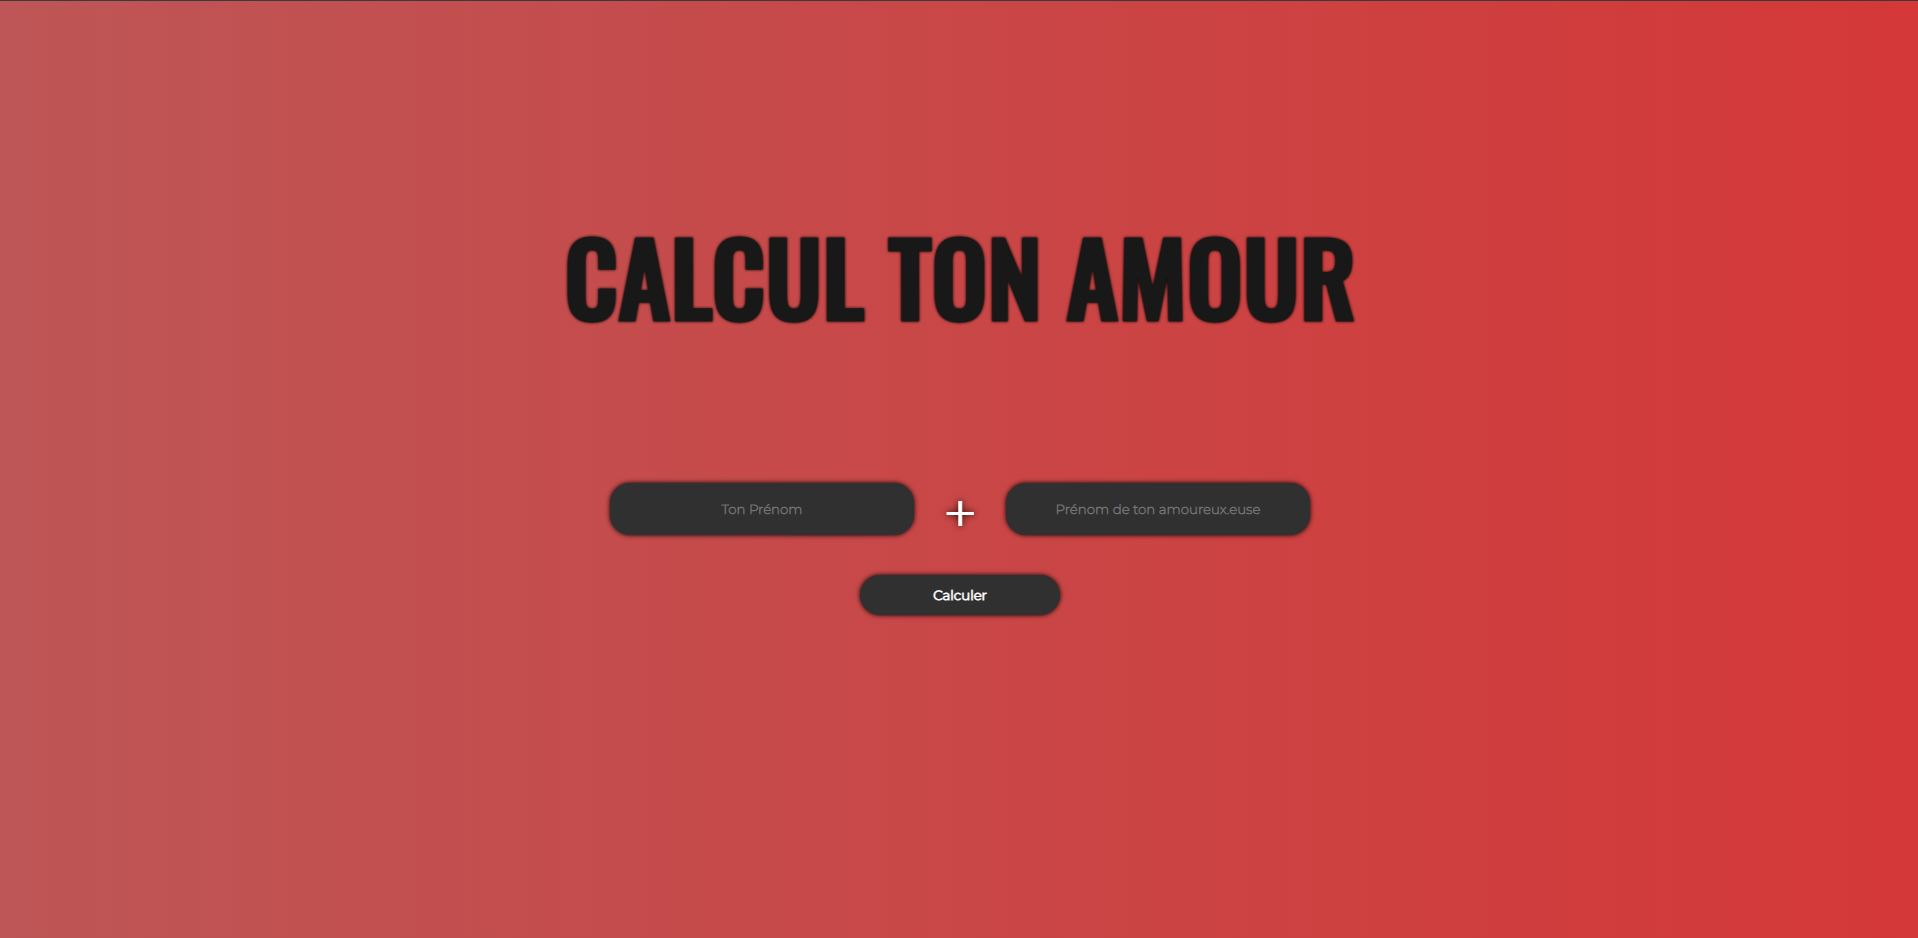
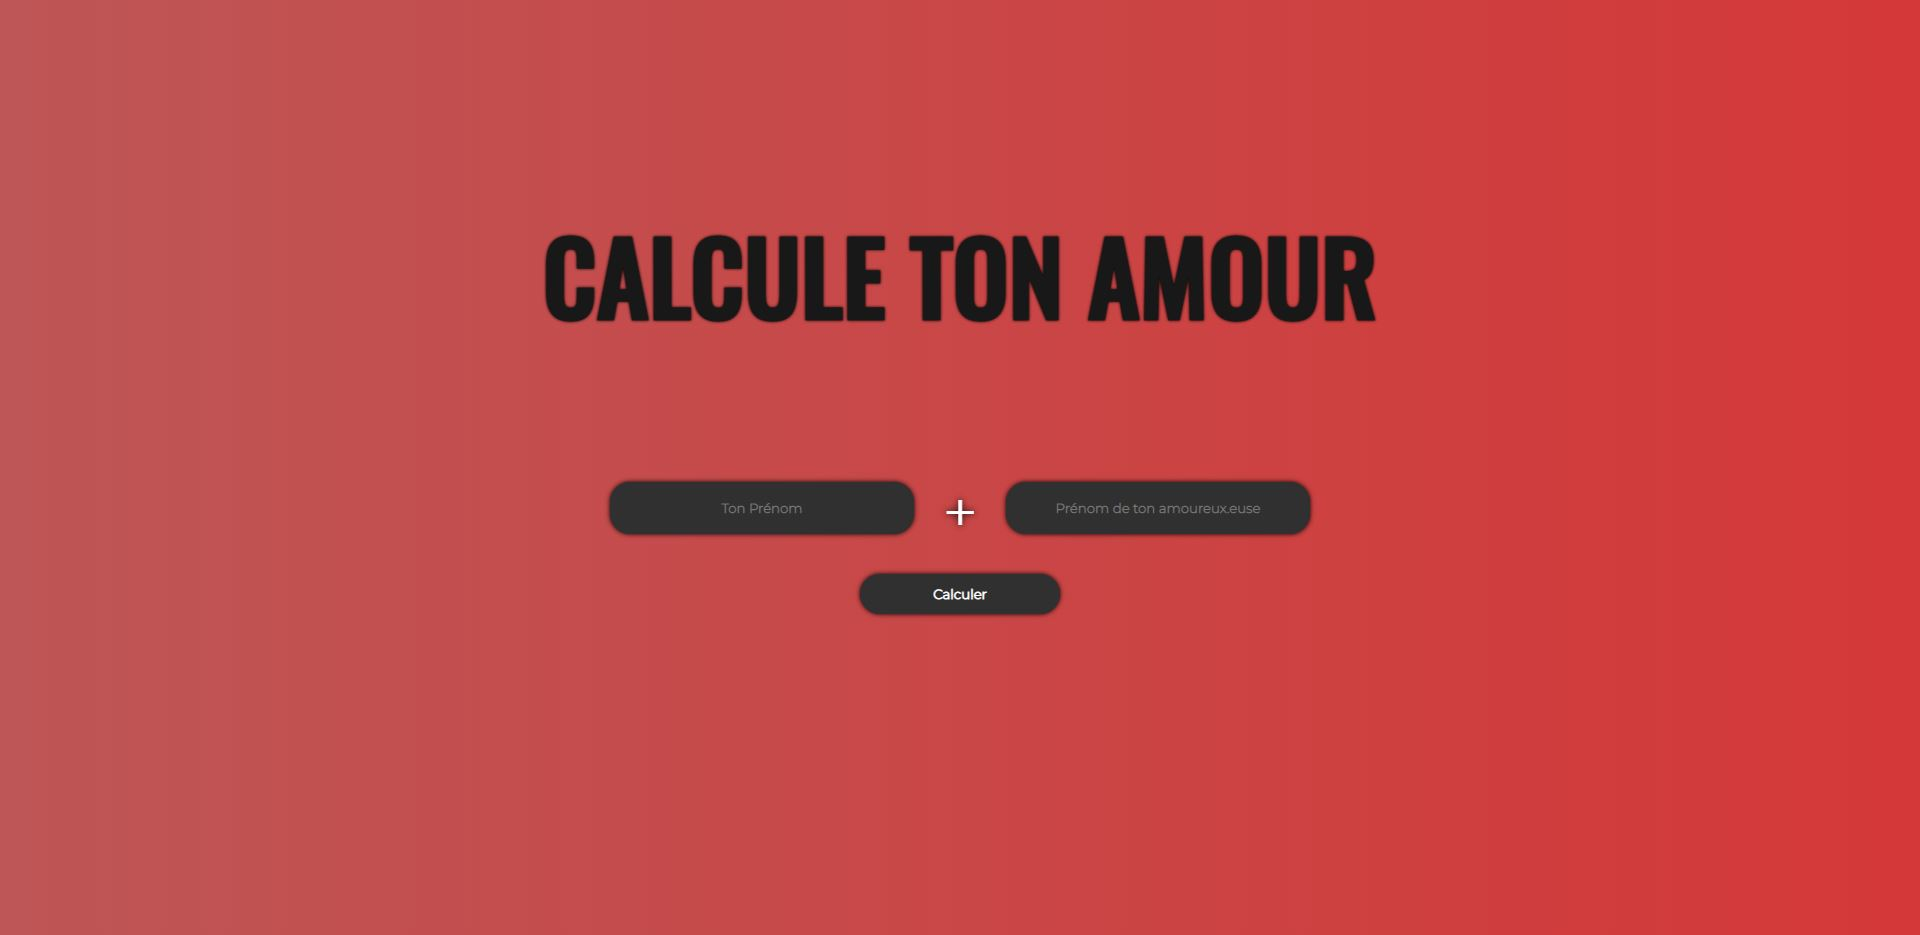
rectification faute

diff --git a/portfolio/foxsearch/style.css b/portfolio/foxsearch/style.css
@@ -1,0 +1,139 @@
+body {
+    background-color: rgba(32, 33, 36, 1);
+    color: #FFFFFF;
+    font-family: Arial, Helvetica, sans-serif
+}
+header {
+    height: 20px;
+}
+button {
+    background: #303134;
+    color: rgb(224, 224, 224);
+    padding: 10px 0px;
+    border-radius: 5px;
+    width: 170px;
+    border: 1px solid #303134;
+}
+button:hover {
+    cursor: pointer;
+    border: 0.7px solid rgb(102, 102, 102);
+}
+button:active {
+    background: rgb(97, 96, 96);
+}
+.tete {
+    display: flex;
+    margin-right: 2em;
+    flex-direction: row;
+    padding: 15px 15px 15px 15px;
+    justify-content: right;
+}
+.tete a {
+    margin: 0 10px;
+    font-size: 13px;
+}
+a {
+    color: white;
+    text-decoration: none;
+}
+a:hover {
+    border-bottom: 1px solid white;
+}
+input {
+    display: flex;
+    border-radius: 30px;
+    border: 1px solid grey;
+    height: 35px;
+    width: 550px;
+    align-items: center;
+    margin-left: auto;
+    margin-right: auto;
+    background-color: rgba(32, 33, 36, 1);
+    padding: 5px 0px 5px 35px;
+    font-size: 15px;
+    color: white;
+}
+input:hover {
+    outline: transparent;
+    border: 1px solid transparent;
+    background-color: #303134;
+
+}
+
+.titre {
+    display: flex;
+    justify-content: center;
+    align-content: center;
+    margin-top: 180px;
+    font-size: 2em;
+}
+.but {
+    display: flex;
+    justify-content: center;
+    margin-top: 30px;
+    
+}
+.but button {
+    margin: 0 10px;
+}
+
+.eng {
+    display: flex;
+    justify-content: center;
+    margin-top: 20px;
+    font-size: 13px;
+    color: rgb(211, 211, 211)
+}
+.eng a {
+    color: rgb(98, 141, 204);
+}
+.footerlink {
+    position: fixed;
+    left: 0;
+    bottom: 0;
+    width: 100%;
+    text-align: center;
+    display: flex;
+    align-items: center;
+    justify-content: space-between;
+    background-color: #171717;
+    border: 1px solid rgba(32, 33, 36, 1);
+    height: 50px;
+}
+
+.footerlink a {
+    color: #999DA2;
+    font-size: 14px;
+}
+
+.footleft a {
+    margin: 0 10px;
+
+}
+.footright a {
+    margin: 0 10px;
+}
+.footleft {
+    margin-left: 20px;
+}
+.footright {
+    margin-right: 20px;
+}
+.jack {
+    position: fixed;
+    left: 0;
+    bottom: 0;
+    margin-bottom: 50px;
+    border: 1px solid rgba(32, 33, 36, 1);;
+    background-color: #171717;
+    display: flex;
+    justify-content: space-between;
+    align-items: center;
+    height: 50px;
+    width: 100%;
+    padding-left: 25px;   
+    color: #999DA2;
+    font-size: 14px;
+}
+
+

diff --git a/portfolio/foxsearch/index.html b/portfolio/foxsearch/index.html
@@ -1,0 +1,66 @@
+<!DOCTYPE html>
+<html lang="fr">
+<head>
+    <meta charset="UTF-8">
+    <meta http-equiv="X-UA-Compatible" content="IE=edge">
+    <meta name="viewport" content="width=device-width, initial-scale=1.0">
+    <link  href="style.css" rel="stylesheet" />
+    <link rel="preconnect" href="https://fonts.googleapis.com">
+    <link rel="preconnect" href="https://fonts.gstatic.com" crossorigin>
+    <link href="https://fonts.googleapis.com/css2?family=Roboto:wght@300;400;700&display=swap" rel="stylesheet">
+    <link rel="stylesheet" href="https://use.fontawesome.com/releases/v5.8.1/css/all.css" integrity="sha384-50oBUHEmvpQ+1lW4y57PTFmhCaXp0ML5d60M1M7uH2+nqUivzIebhndOJK28anvf" crossorigin="anonymous">
+    <title>FoxSearch</title>
+</head>
+<body>
+    <header>
+        <div class="tete">
+            <a href="#" >Foxymail</a>
+            <a href="#" >Images</a>
+        </div>
+    </header>
+
+    <div class="titre">
+        <h1>FoxSearch</h1>
+    </div>
+    
+    <div class="bord">
+        <input type="text" name="recherche" placeholder="Effectuez une recherche sur le meilleur moteur de recherche">
+        </imput>
+    </div>
+
+    <div class="but">
+        <div class="bo1">
+            <button type="button">Recherche FoxSearch</button>
+        </div>
+        <div class="bo2">
+            <button type="button">J'ai de la chance</button>
+        </div>
+    </div>
+    <div class="eng">
+        FoxSearch disponible en :&nbsp; <a href="#">English</a>
+    </div>
+    
+    <footer>
+        <div class="jack">
+        <p>France</p>
+        </div>
+        <div class="footerlink">
+            <div class="footleft">
+                <a href="#" >A propos</a>
+                <a href="#" >Publicité</a>
+                <a href="#" >Entreprise</a>
+                <a href="#" >Comment fonctionne la recherche Google ?</a>
+            </div>
+            <div  class="footmid">
+                <a href="#" >Neutre en carbonne depuis 2007</a>
+            </div>
+            <div class="footright">
+                <a class="Confidentialité" href="#" >Informations Consommateurs</a>
+                <a class="Conditions" href="#" >Confidentialité</a>
+                <a class="" href="#" >Conditions</a>
+                <a href="#" >Paramètres</a>
+            </div>
+        </div>
+    </footer>
+</body>
+</html>
